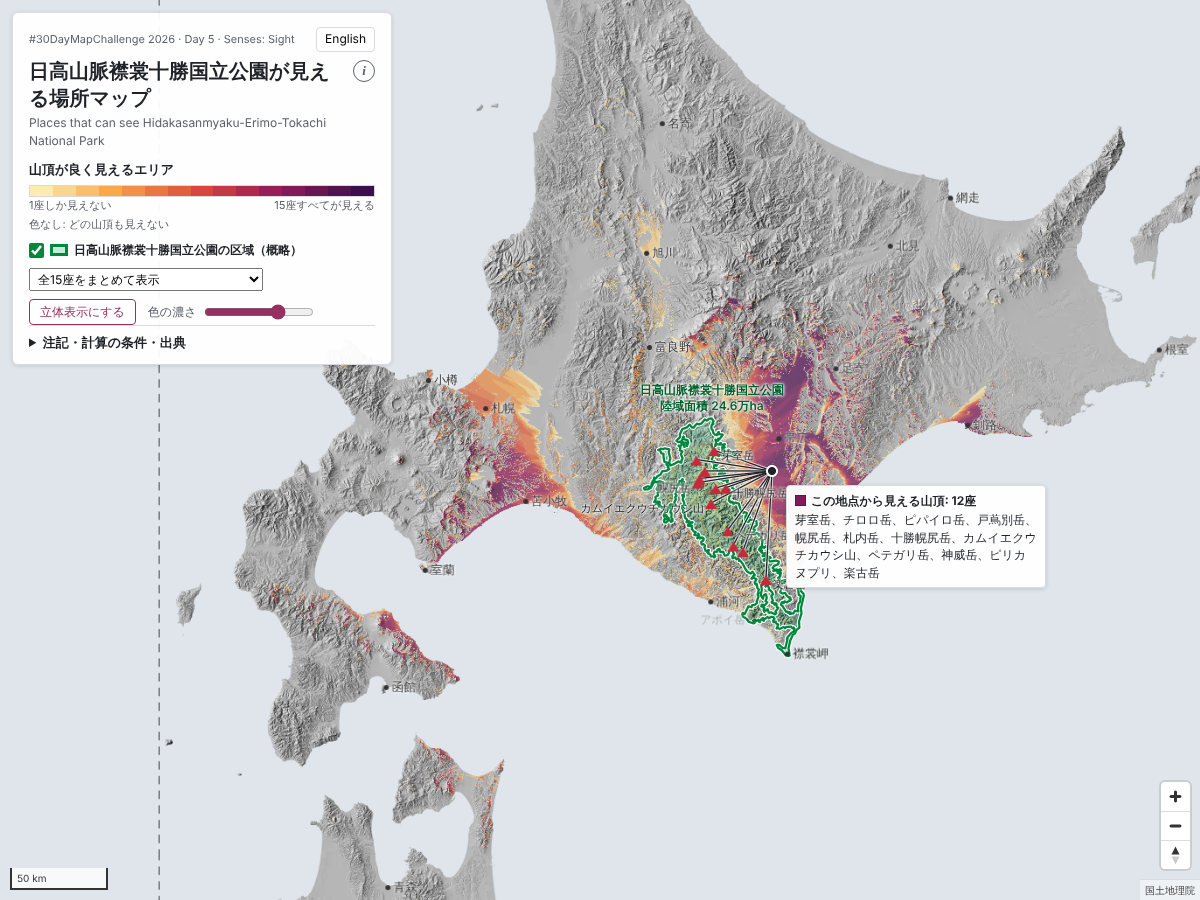
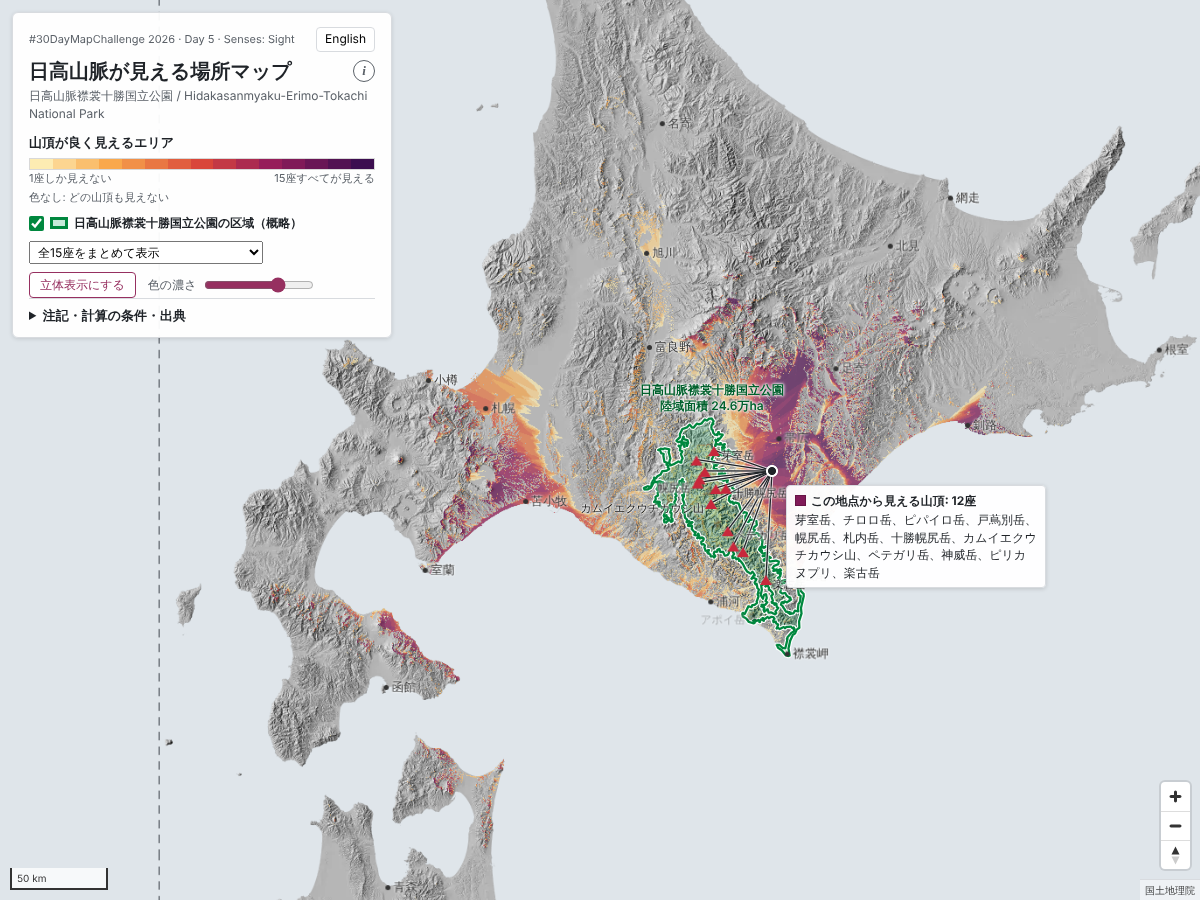
Shorten the title to 日高山脈が見える場所マップ

Changed region(s): [[0.0, 0.0622, 0.3392, 0.4044]]

diff --git a/site/app.js b/site/app.js
@@ -27,8 +27,8 @@
 
   const T = {
     ja: {
-      title: '日高山脈襟裳十勝国立公園が見える場所マップ',
-      subtitle: 'Places that can see Hidakasanmyaku-Erimo-Tokachi National Park',
+      title: '日高山脈が見える場所マップ',
+      subtitle: '日高山脈襟裳十勝国立公園 / Hidakasanmyaku-Erimo-Tokachi National Park',
       lead: s => `公園の陸域は東京都より広い。この公園の主な山頂${N}座のうち、どれか1座でも地形の上で見える場所を合わせると、公園の${s.ratio_park.toFixed(1)}倍、東京都の${s.ratio_tokyo.toFixed(1)}倍の広さになる。最も遠いのは岩手県の岩手山付近で、${far.name_ja}から約${Math.round(far.farthest_km)} km離れている。`,
       notesTitle: '注記・計算の条件・出典',
       modeAll: '山頂が良く見えるエリア',
@@ -68,8 +68,8 @@
 <p><a href="https://github.com/shinyanakashima/30daymapchallenge-2026day5-hidakasanmyaku">計算スクリプト（GitHub）</a></p>`
     },
     en: {
-      title: 'Places that can see Hidakasanmyaku-Erimo-Tokachi National Park',
-      subtitle: '日高山脈襟裳十勝国立公園が見える場所マップ',
+      title: 'Where you can see the Hidaka Mountains',
+      subtitle: '日高山脈襟裳十勝国立公園 / Hidakasanmyaku-Erimo-Tokachi National Park',
       lead: s => `The park's land area is larger than Tokyo. All the places from which at least one of its ${N} main peaks can be seen, by terrain alone, add up to ${s.ratio_park.toFixed(1)} times the park and ${s.ratio_tokyo.toFixed(1)} times Tokyo. The farthest such point is near Mount Iwate in Iwate Prefecture, about ${Math.round(far.farthest_km)} km from ${far.name_en}.`,
       notesTitle: 'Notes, method and sources',
       modeAll: 'Where the summits can be seen well',

diff --git a/site/index.html b/site/index.html
@@ -3,9 +3,9 @@
 <head>
 <meta charset="utf-8">
 <meta name="viewport" content="width=device-width, initial-scale=1">
-<title>日高山脈襟裳十勝国立公園が見える場所マップ</title>
+<title>日高山脈が見える場所マップ</title>
 <meta name="description" content="日高山脈襟裳十勝国立公園の主な山頂15座が、地形の上でどこから見えるかを計算した地図。#30DayMapChallenge 2026 Day 5 Senses: Sight">
-<meta property="og:title" content="日高山脈襟裳十勝国立公園が見える場所マップ">
+<meta property="og:title" content="日高山脈が見える場所マップ">
 <meta property="og:description" content="日高山脈襟裳十勝国立公園 / Hidakasanmyaku-Erimo-Tokachi National Park の主な山頂の可視領域">
 <meta property="og:image" content="https://shinyanakashima.github.io/30daymapchallenge-2026day5-hidakasanmyaku/card.png">
 <meta property="og:type" content="website">
@@ -23,10 +23,10 @@
     <button id="lang" type="button" aria-label="Language">English</button>
   </div>
   <div class="title-row">
-    <h1 data-i18n="title">日高山脈襟裳十勝国立公園が見える場所マップ</h1>
+    <h1 data-i18n="title">日高山脈が見える場所マップ</h1>
     <button id="info" type="button" aria-expanded="false" aria-controls="lead" aria-label="説明 / About">i</button>
   </div>
-  <p class="sub" data-i18n="subtitle">Places that can see Hidakasanmyaku-Erimo-Tokachi National Park</p>
+  <p class="sub" data-i18n="subtitle">日高山脈襟裳十勝国立公園 / Hidakasanmyaku-Erimo-Tokachi National Park</p>
   <p class="lead" id="lead" hidden></p>
   <div id="mode"></div>
   <div id="legend"></div>

diff --git a/scripts/05_card.py b/scripts/05_card.py
@@ -129,8 +129,8 @@ def main():
             halo((x - 10, y), p["name_ja"], f(17), anchor="rm")
 
     # header
-    d.text((40, 30), "日高山脈襟裳十勝国立公園が見える場所マップ", font=f(46), fill=(25, 28, 32))
-    d.text((42, 92), "Places that can see Hidakasanmyaku-Erimo-Tokachi National Park", font=f(20), fill=(90, 96, 104))
+    d.text((40, 30), "日高山脈が見える場所マップ", font=f(46), fill=(25, 28, 32))
+    d.text((42, 92), "日高山脈襟裳十勝国立公園 / Hidakasanmyaku-Erimo-Tokachi National Park", font=f(20), fill=(90, 96, 104))
     vis_man = stats["visible_any_ha"] / 10000
     d.text((42, 132), f"公園の陸域 24.6万ha は東京都（21.9万ha）より広い。", font=f(24), fill=(25, 28, 32))
     d.text((42, 166), f"主な山頂{n}座のどれかが見える場所は {vis_man:.1f}万ha。公園の{stats['ratio_park']:.1f}倍、東京都の{stats['ratio_tokyo']:.1f}倍。",

diff --git a/README.md b/README.md
@@ -1,6 +1,7 @@
-# 日高山脈襟裳十勝国立公園が見える場所マップ
+# 日高山脈が見える場所マップ
 
-**Places that can see Hidakasanmyaku-Erimo-Tokachi National Park**
+**Where you can see the Hidaka Mountains**
+日高山脈襟裳十勝国立公園 / Hidakasanmyaku-Erimo-Tokachi National Park
 
 #30DayMapChallenge 2026 Day 5「Senses: Sight」の作品です。
 
